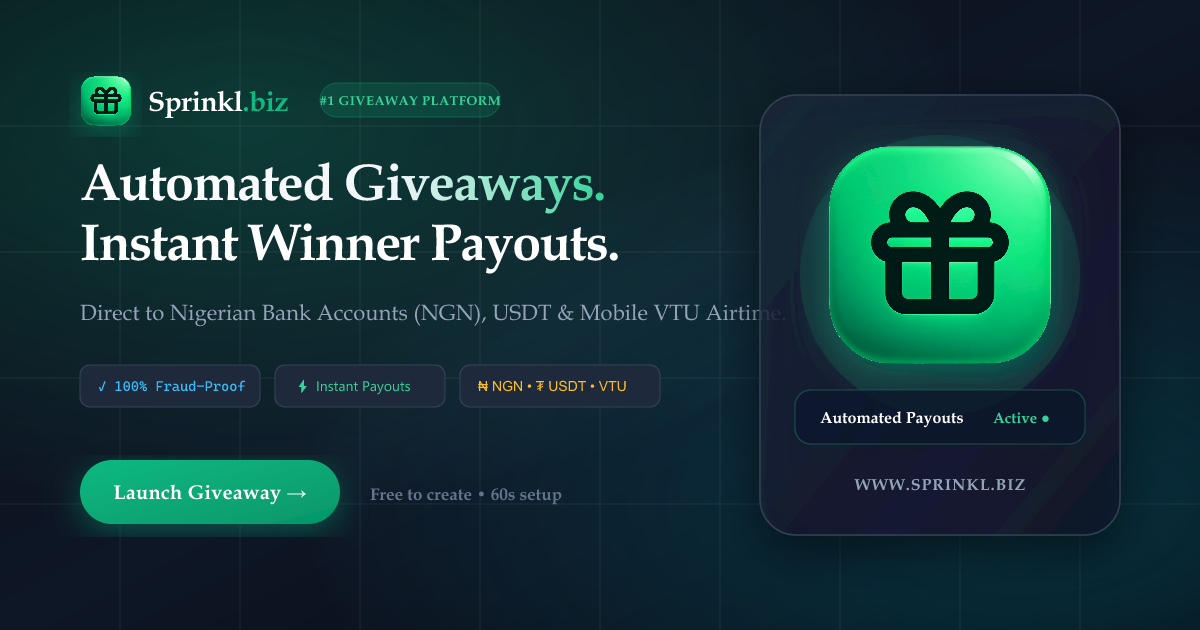
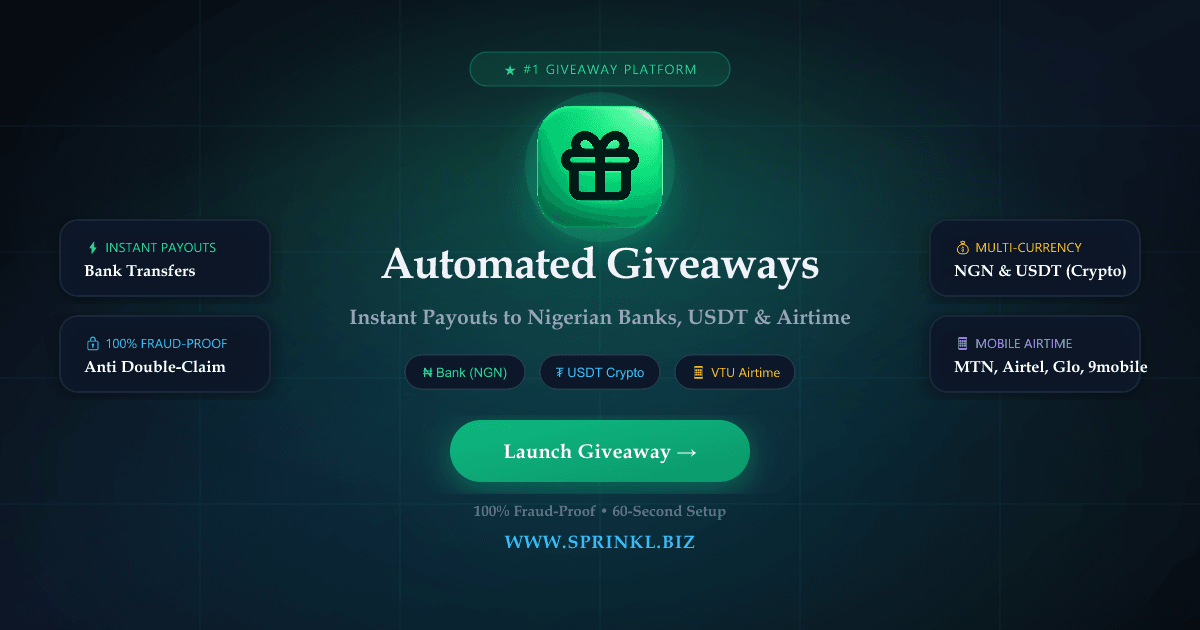
optimize og-image with center safe-zone, compress to 127kb for whatsapp/twitter cards, and bump cache-buster to v3

diff --git a/index.html b/index.html
@@ -65,8 +65,8 @@
     <meta property="og:url" content="https://www.sprinkl.biz/" />
     <meta property="og:title" content="Sprinkl — Automated Giveaways &amp; Instant Payouts" />
     <meta property="og:description" content="Launch giveaways in 60s. Winners get paid instantly via Nigerian bank transfer, USDT, or mobile airtime. Verified and fraud-proof." />
-    <meta property="og:image" content="https://www.sprinkl.biz/og-sprinkl.png?v=2" />
-    <meta property="og:image:secure_url" content="https://www.sprinkl.biz/og-sprinkl.png?v=2" />
+    <meta property="og:image" content="https://www.sprinkl.biz/og-sprinkl.png?v=3" />
+    <meta property="og:image:secure_url" content="https://www.sprinkl.biz/og-sprinkl.png?v=3" />
     <meta property="og:image:width" content="1200" />
     <meta property="og:image:height" content="630" />
     <meta property="og:image:type" content="image/png" />
@@ -80,7 +80,7 @@
     <meta name="twitter:url" content="https://www.sprinkl.biz/" />
     <meta name="twitter:title" content="Sprinkl — Automated Cash, USDT &amp; Airtime Giveaways" />
     <meta name="twitter:description" content="Launch giveaways that pay winners instantly via NGN bank transfer, USDT crypto, or airtime top-ups. Zero double-claims." />
-    <meta name="twitter:image" content="https://www.sprinkl.biz/og-sprinkl.png?v=2" />
+    <meta name="twitter:image" content="https://www.sprinkl.biz/og-sprinkl.png?v=3" />
     <meta name="twitter:image:alt" content="Sprinkl Giveaway Platform — Automated payouts to Nigerian banks, crypto wallets, and VTU airtime" />
     <meta name="twitter:creator" content="@sprinklbiz" />
     <meta name="twitter:site" content="@sprinklbiz" />

diff --git a/src/components/SEO.jsx b/src/components/SEO.jsx
@@ -8,7 +8,7 @@ export default function SEO({
   description = "Sprinkl is Nigeria's #1 automated giveaway platform. Pay winners directly to bank accounts (NGN), crypto wallets (USDT), or instant VTU mobile airtime (MTN, Airtel, Glo, 9mobile). Zero double-claims.",
   canonical = '/',
   keywords = 'giveaway platform Nigeria, VTU airtime giveaway, airtime drop Nigeria, MTN airtime giveaway, Airtel airtime giveaway, Glo airtime drop, 9mobile recharge Nigeria, automated giveaway platform, cash giveaway Nigeria, crypto giveaway platform, NGN giveaway, USDT giveaway Nigeria, sprinkl ng, sprinkl nigeria, sprinkl giveaway nigeria',
-  ogImage = 'https://www.sprinkl.biz/og-sprinkl.png',
+  ogImage = 'https://www.sprinkl.biz/og-sprinkl.png?v=3',
   ogType = 'website',
   noIndex = false,
   breadcrumbs = null,
